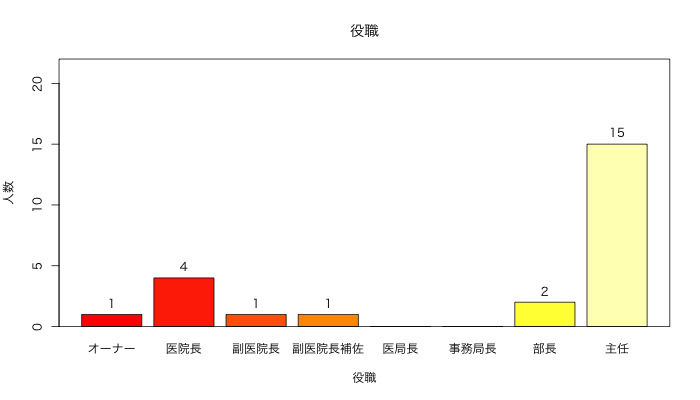
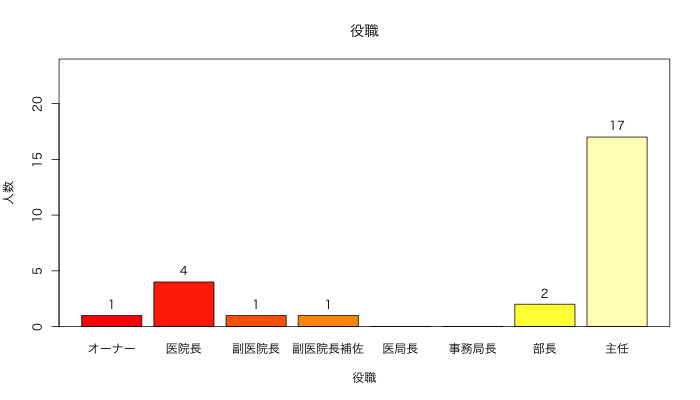
更新

diff --git a/ReadMe.md b/ReadMe.md
@@ -13,7 +13,7 @@
 
 ## 会員構成
 
-2017年05月28日(日)時点での主任以上の会員
+2017年06月25日(日)時点での主任以上の会員
 
 ### 一覧
 
@@ -27,20 +27,22 @@
 |副医院長|受付薬局科|Sherry||
 |副医院長補佐|ナース科|さきりん||
 |部長|相談科|れい||
-|部長|受付薬局科|宇佐|<img src="https://github.com/fairy00000/organization/blob/master/image/new.gif">|
+|部長|受付薬局科|宇佐||
 |主任|内科|Fx||
-|主任|内科|SEANO||
 |主任|内科|くぅ||
 |主任|内科|にゃんこ||
 |主任|内科|まるきゅう||
 |主任|内科|みなみん||
 |主任|内科|ルミカ||
+|主任|内科|優亜||
 |主任|外科|ノッチィ||
 |主任|相談科|saaya||
 |主任|相談科|かお||
+|主任|相談科|たくま|<img src="https://github.com/fairy00000/organization/blob/master/image/new.gif">|
 |主任|相談科|みさき||
-|主任|受付薬局科|nami|<img src="https://github.com/fairy00000/organization/blob/master/image/new.gif">|
+|主任|受付薬局科|nami||
 |主任|受付薬局科|かのん||
+|主任|受付薬局科|すてら|<img src="https://github.com/fairy00000/organization/blob/master/image/new.gif">|
 |主任|受付薬局科|りな||
 |主任|受付薬局科|渚||
 
@@ -55,8 +57,8 @@
 |医局長|0|0|0|0|0|0|0|0|0|
 |事務局長|0|0|0|0|0|0|0|0|0|
 |部長|0|0|0|0|1|0|0|1|2|
-|主任|0|7|1|0|3|0|0|4|15|
-|合計|1|7|2|2|5|0|1|6|24|
+|主任|0|7|1|0|4|0|0|5|17|
+|合計|1|7|2|2|6|0|1|7|26|
 
 <img src="https://github.com/fairy00000/organization/blob/master/image/Member.png">
 
